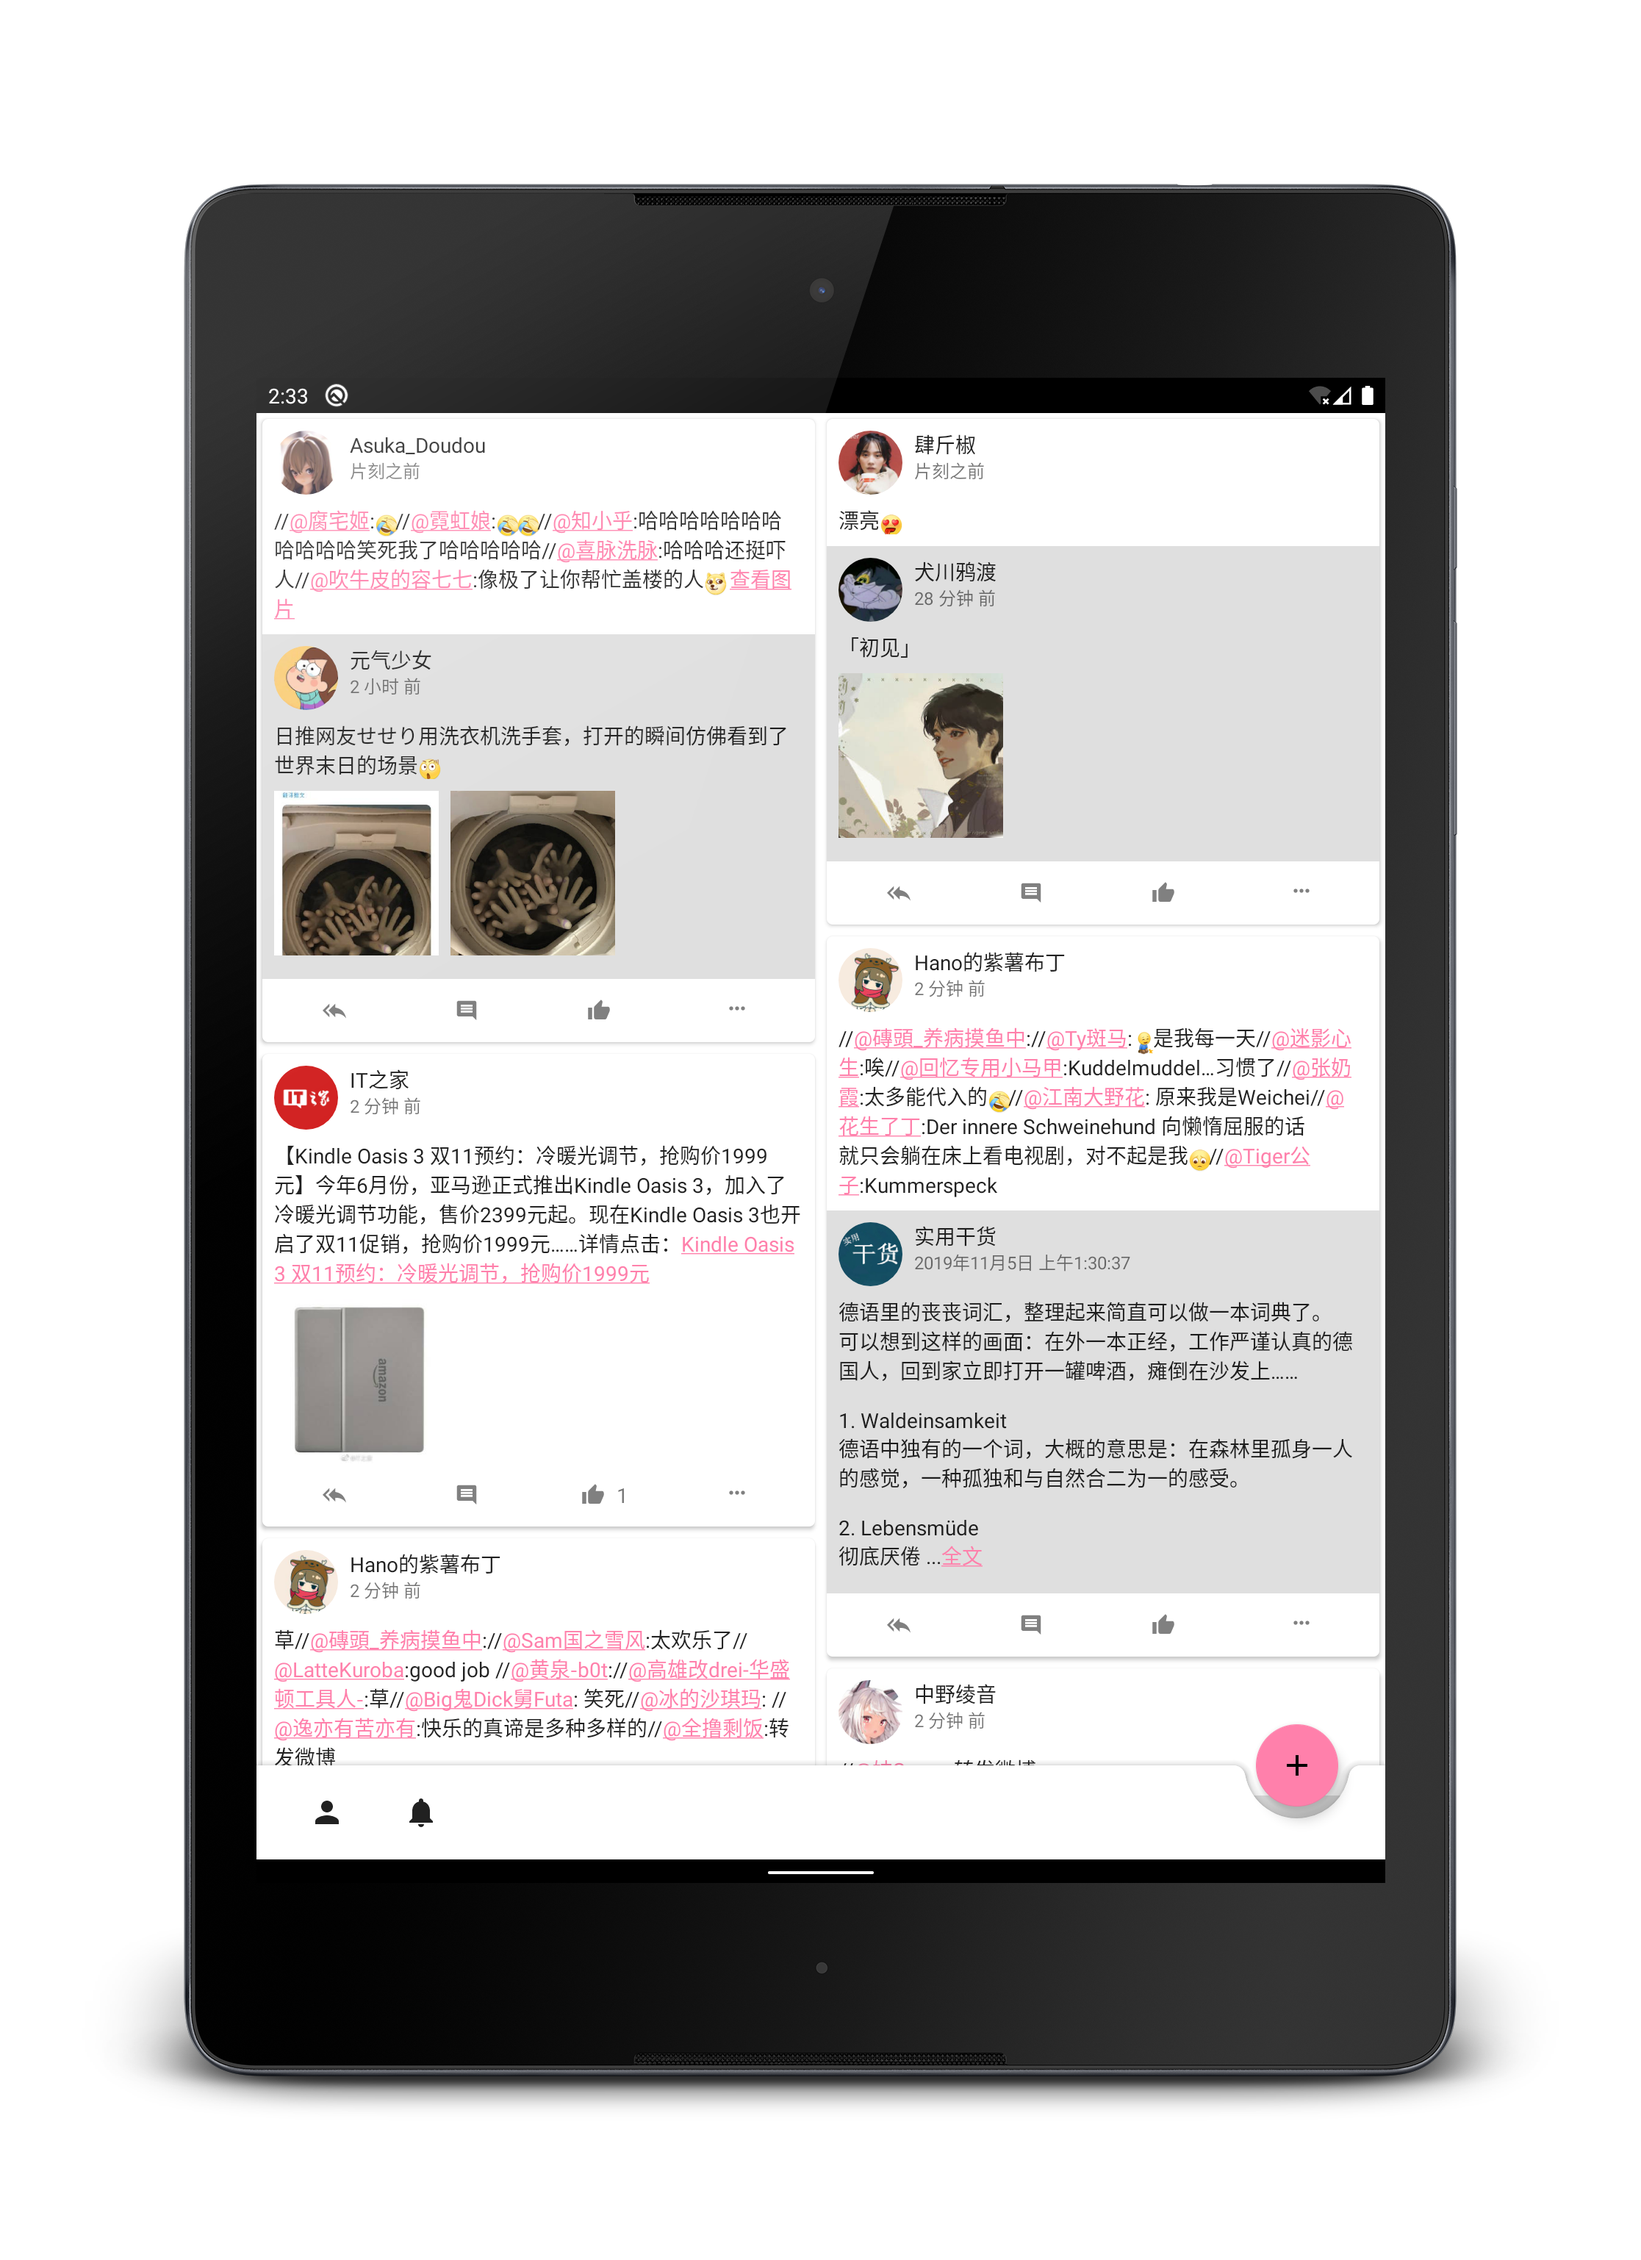
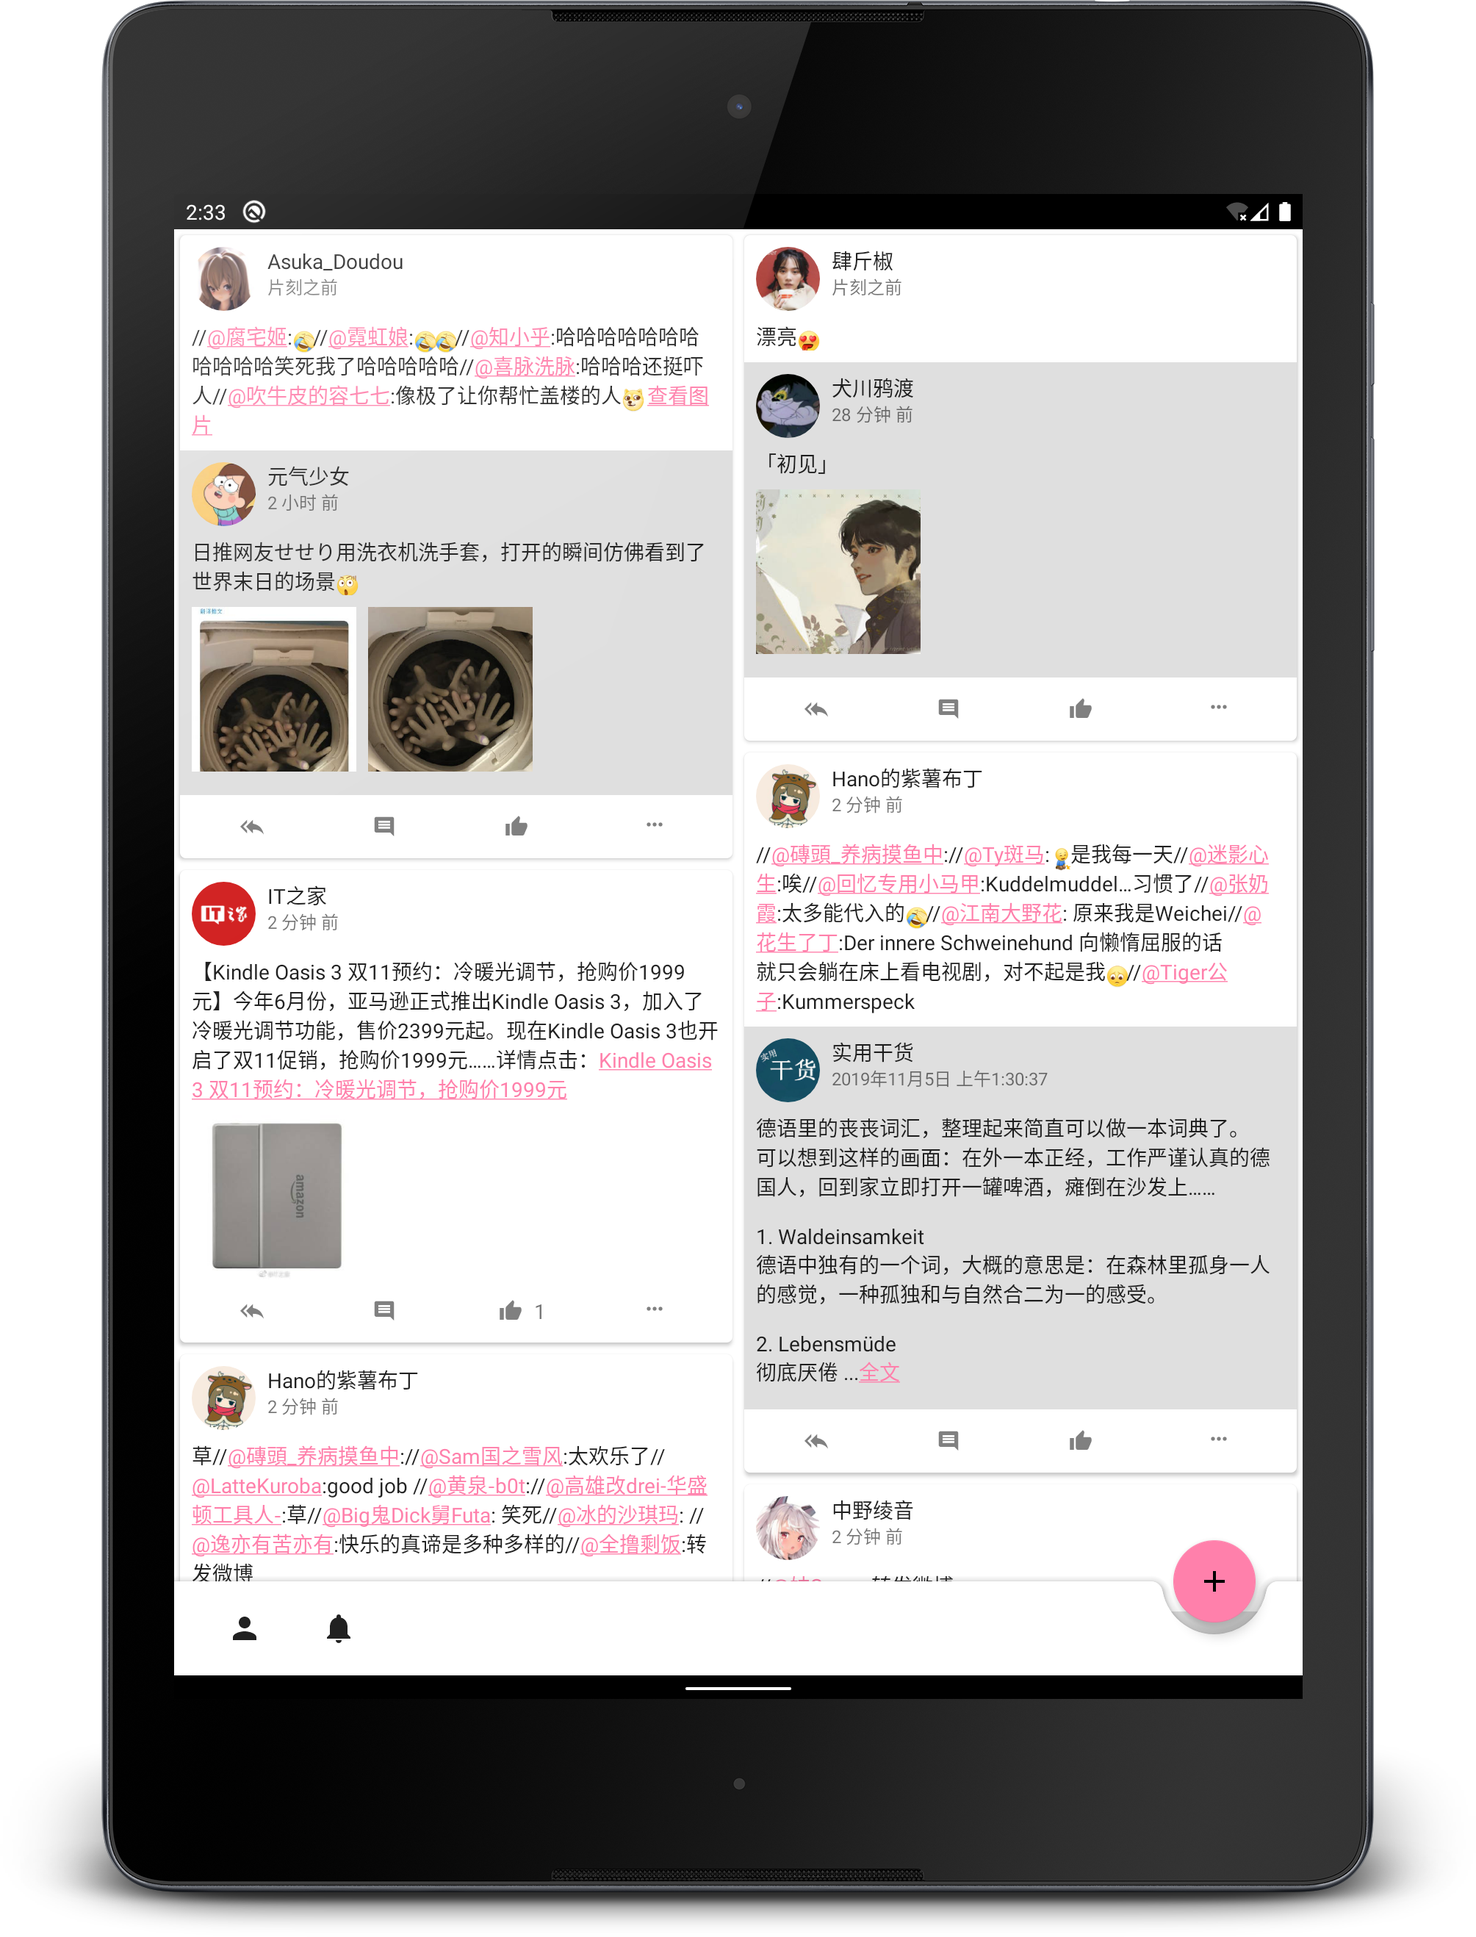
Update Images

diff --git a/README.md b/README.md
@@ -9,9 +9,9 @@
 <a href='https://www.microsoft.com/store/apps/9MXZPMTJBL6P'><img src='https://assets.windowsphone.com/85864462-9c82-451e-9355-a3d5f874397a/English_get-it-from-MS_InvariantCulture_Default.png' alt='Get it from Microsoft' style='width: 20vmin;'/></a>
 <a href='https://play.google.com/store/apps/details?id=moe.tlaster.weipo'><img alt='Get it on Google Play' src='https://play.google.com/intl/en_us/badges/static/images/badges/en_badge_web_generic.png'  style='width: 20vmin;'/></a>
 
-  <img alt="Surface Book" src="screenshot/screenshot_11092019_222205_microsoft-surfacebook-front.png" style="height: 24vmin" />
-  <img alt="Surface Pro" src="screenshot/screenshot_11092019_222205_microsoft-surfacepro3-front.png" style="height: 24vmin"/>
-  <img alt="Nexus 9" src="screenshot/Screenshot_1573310007_framed.png" style="height: 24vmin" />
-  <img alt="Pixel 2 XL" src="screenshot/Screenshot_1573305978_framed.png" style="height: 24vmin" />
+  <img alt="Surface Book" src="screenshot/screenshot_11092019_222205_microsoft-surfacebook-front.png" style="height: 18vmin" />
+  <img alt="Surface Pro" src="screenshot/screenshot_11092019_222205_microsoft-surfacepro3-front.png" style="height: 18vmin"/>
+  <img alt="Nexus 9" src="screenshot/Screenshot_1573310007_framed.png" style="height: 18vmin" />
+  <img alt="Pixel 2 XL" src="screenshot/Screenshot_1573305978_framed.png" style="height: 18vmin" />
 </div>
 
